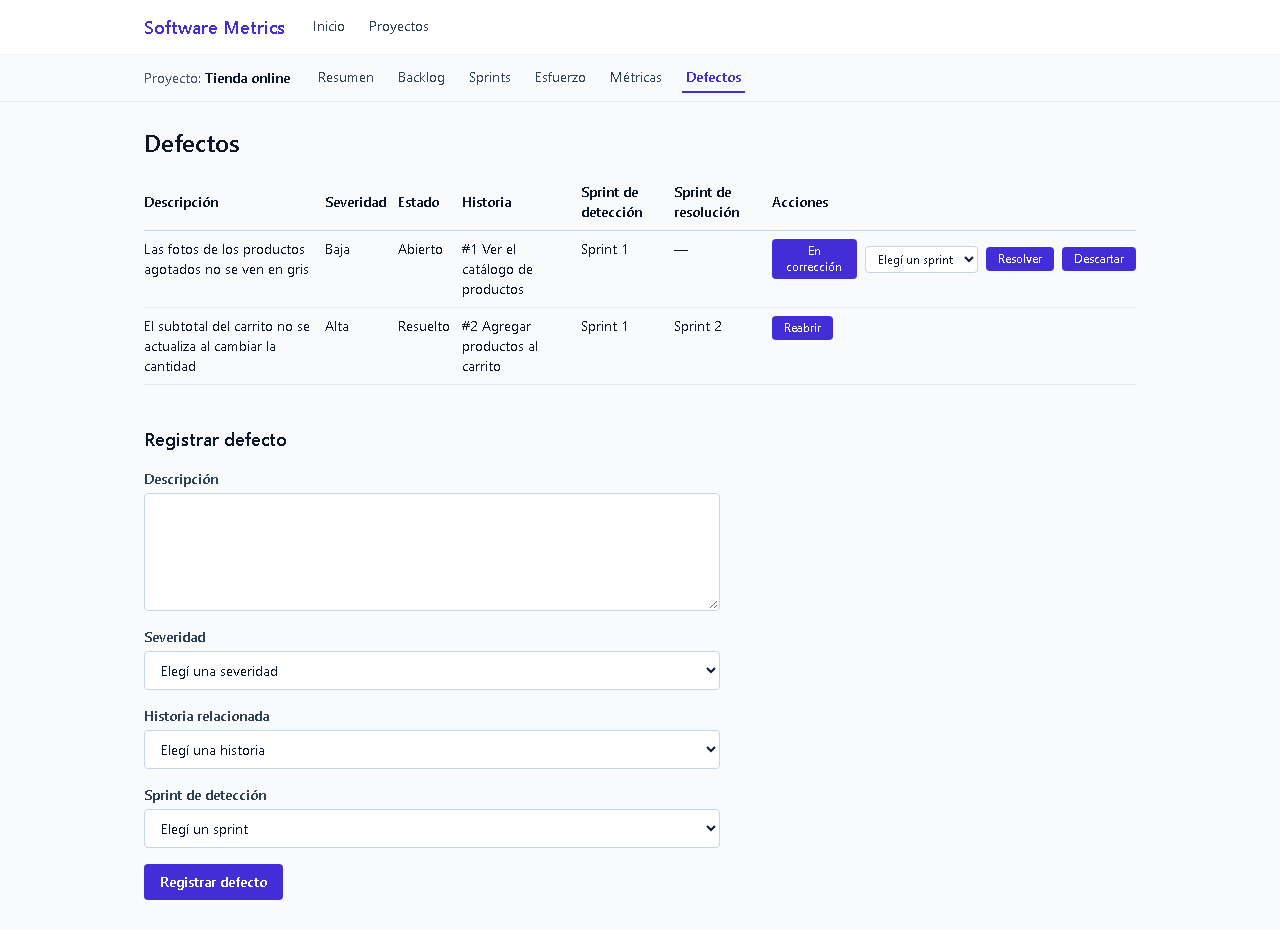
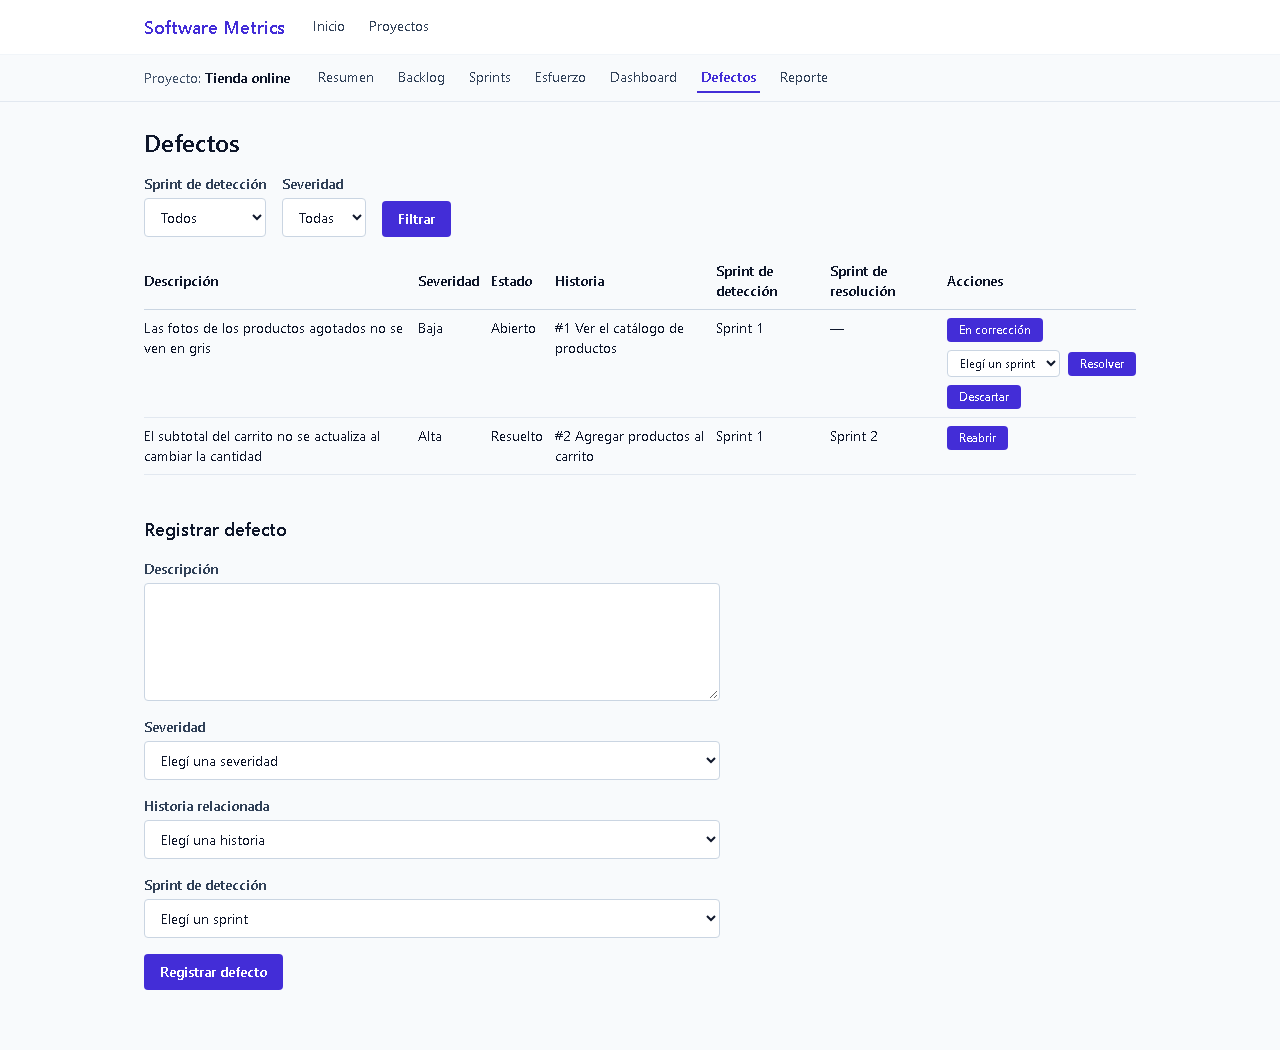
docs(manual): dashboard, reporte imprimible y filtro de defectos con sus capturas [T-008]

diff --git a/docs/manual-de-usuario.md b/docs/manual-de-usuario.md
@@ -2,12 +2,11 @@
 
 Este manual recorre **Software Metrics & Estimation** pantalla por pantalla, en el orden en que la usa
 un equipo: primero el proyecto y sus integrantes, después el backlog, los sprints, la estimación con
-Planning Poker, las horas trabajadas y los defectos. Para cada pantalla dice para qué sirve, qué se
-carga y qué errores puede mostrar.
+Planning Poker, las horas trabajadas y los defectos, y al final el dashboard y el reporte. Para cada
+pantalla dice para qué sirve, qué se carga y qué errores puede mostrar.
 
 Las capturas son de la aplicación real, en una máquina local con los datos de ejemplo y un proyecto de
-demostración, **Tienda online**, que se cargó desde las mismas pantallas (28/10/2026). Las pantallas que
-todavía no están en `main` se marcan **(en desarrollo)**.
+demostración, **Tienda online**, que se cargó desde las mismas pantallas (29/10/2026).
 
 ## Antes de empezar
 
@@ -24,7 +23,7 @@ con tres integrantes. Para desarrollar, ver la [documentación técnica](documen
 
 - La **principal**, con *Inicio* y *Proyectos*.
 - La **del proyecto**, que aparece cuando se entra a uno: *Resumen*, *Backlog*, *Sprints*, *Esfuerzo*,
-  *Métricas* y *Defectos*. La sección en la que se está queda subrayada.
+  *Dashboard*, *Defectos* y *Reporte*. La sección en la que se está queda subrayada.
 
 **Cómo se ven los errores.** Cuando algo no se puede guardar, la pantalla no cambia y aparece arriba un
 recuadro rojo con **todos** los problemas juntos, para corregirlos de una vez (no uno por uno). Hay tres
@@ -129,8 +128,9 @@ prioridad tiene que ser must, should, could o wont", "el criterio de aceptacion 
 estimacion tiene que ser 1, 2, 3, 5, 8 o 13" y "el item esta completado" (una historia completada no se
 edita ni se estima).
 
-**Listar y filtrar el backlog (fuera de alcance).** Filtrar por estado y prioridad (US-007) quedó afuera
-del alcance del proyecto.
+**Filtrar el backlog por estado y prioridad.** La aplicación ya sabe filtrar (US-007), pero la pantalla
+del backlog todavía no ofrece los controles: la spec de US-007 deja la pantalla fuera de su alcance. Hoy
+el backlog se ve siempre completo.
 
 ## 4. Sprints
 
@@ -159,7 +159,8 @@ las del proyecto", "el sprint tiene que empezar despues de que termine el ultimo
 ### Detalle de un sprint: asignar, marcar y cerrar
 
 Se entra tocando el nombre del sprint. Muestra su Sprint Goal, fechas, estado y los Story Points
-planificados y completados, y la lista de sus historias.
+planificados y completados, y la lista de sus historias. El enlace **Reporte** abre el
+[reporte del sprint](#9-reporte-imprimir-o-guardar-como-pdf).
 
 ![Sprint abierto](manual/09-sprint-abierto.png)
 
@@ -289,21 +290,64 @@ al mismo tiempo: hay que recargar) y, si se toca **Resolver** sin elegir sprint:
 
 ![Error: resolver sin sprint](manual/15-error-defecto.png)
 
-**Filtrar por sprint y severidad (en desarrollo).** El filtro (US-024) tiene su spec, pero todavía no
-está implementado.
+### Filtrar por sprint y severidad
 
-## 8. Dashboard y métricas (en desarrollo)
+Arriba de la lista, **Sprint de detección** y **Severidad** acotan los defectos que se ven; **Filtrar**
+aplica los dos a la vez y *Todos* / *Todas* los quita. Si ningún defecto cumple los filtros, la lista lo
+dice ("Ningún defecto cumple los filtros"), que no es lo mismo que un proyecto sin defectos ("Todavía no
+hay defectos").
 
-La pestaña **Métricas** va a mostrar el dashboard del proyecto (US-030): Story Points planificados y
-completados, velocidad, horas estimadas contra reales, porcentaje de historias completadas y defectos por
-sprint, con dos gráficos. Los cálculos ya están hechos y probados, y algunos se ven en otras pantallas
-(la velocidad en *Sprints anteriores*, la desviación en *Estimado contra real*), pero la pantalla todavía
-no está en `main`: hoy el enlace muestra "Página no encontrada".
+![Defectos filtrados por severidad alta](manual/18-defectos-filtrados.png)
 
-## 9. Reporte imprimible (en desarrollo)
+## 8. Dashboard
 
-El reporte de un proyecto o de un sprint en pantalla (US-033) y su vista imprimible para guardarlo como
-PDF desde el navegador (US-034) tienen su spec, pero todavía no están en `main`.
+La pestaña **Dashboard** reúne el estado del proyecto y sus métricas en una sola pantalla:
+
+- **Estado general:** la misma tarjeta del [resumen](#2-resumen-del-proyecto-e-integrantes).
+- **Sprint de referencia** (el abierto, o el último cerrado): Story Points completados sobre planificados,
+  porcentaje de historias completadas, horas estimadas, horas reales y desviación.
+- **Defectos:** el total, por severidad y por estado.
+- **Velocidad y sprints cerrados:** la velocidad del equipo y, por cada sprint cerrado, los Story Points
+  planificados y completados y los defectos detectados y resueltos en él.
+- **Gráficos:** barras con los Story Points planificados y completados de cada sprint cerrado, y una barra
+  con el porcentaje de historias completadas del sprint de referencia.
+
+No se carga nada: los números salen de lo que ya se registró en las otras pantallas. Si una tarjeta no se
+puede calcular, muestra su error y las demás se ven igual. Un proyecto sin sprints cerrados no tiene
+velocidad ni barras, y el dashboard lo dice.
+
+![Dashboard](manual/16-dashboard.png)
+
+## 9. Reporte: imprimir o guardar como PDF
+
+La pestaña **Reporte** muestra el reporte completo del proyecto, en una sola página y siempre con las
+mismas secciones: proyecto (con su estado general), integrantes, Product Backlog, sprints, esfuerzo
+(con el estimado contra real), defectos y métricas. El de un sprint se abre desde el enlace **Reporte** de
+la pantalla del sprint, y tiene el sprint, sus historias con el resultado de cada una, sus métricas, las
+horas registradas en él y los defectos detectados y resueltos. Una sección sin información dice "Sin
+datos"; una que no se pudo calcular muestra su error y el resto del reporte se ve igual. Los números se
+calculan en cada visita.
+
+![Reporte del proyecto](manual/17-reporte.png)
+
+**Imprimir o guardar como PDF.** El botón abre el diálogo de impresión del navegador; ahí se elige la
+impresora o "Guardar como PDF". Da lo mismo que imprimir con `Ctrl+P`. La versión impresa:
+
+- no tiene el menú, los botones ni los enlaces de la pantalla;
+- empieza con un encabezado con el nombre del proyecto, el título del reporte y "Generado el
+  dd/mm/aaaa", para que una hoja suelta diga de qué proyecto y de qué día es;
+- es A4 vertical, en negro sobre blanco;
+- no corta una sección que entra en una página, no deja un título solo al pie y no parte una fila de
+  tabla; una tabla que no entra en una hoja sigue en la siguiente repitiendo su encabezado.
+
+El PDF lo genera el navegador: la aplicación no crea archivos. Sin JavaScript el botón no aparece, pero
+`Ctrl+P` imprime igual. Ejemplos generados con Chrome: el
+[reporte del proyecto](evidencias/US-034/reporte-del-proyecto.pdf), el
+[del Sprint 1](evidencias/US-034/reporte-del-sprint-1.pdf) y uno con una
+[tabla de 60 historias](evidencias/US-034/reporte-con-tabla-larga.pdf) que ocupa dos hojas.
+
+**Errores posibles:** si el proyecto o el sprint no existen, o el sprint es de otro proyecto, se ve la
+página "Página no encontrada", sin botón de imprimir.
 
 ---
 
@@ -319,3 +363,5 @@ PDF desde el navegador (US-034) tienen su spec, pero todavía no están en `main
 7. **Defectos:** registrar un defecto y pasarlo a resuelto en un sprint.
 8. **Sprints → Cerrar sprint:** las historias no completadas vuelven al backlog. Crear el Sprint 2 y mirar
    **Ver sprints anteriores** para ver la velocidad.
+9. **Dashboard:** ver el estado, la velocidad y los gráficos.
+10. **Reporte → Imprimir o guardar como PDF:** guardar el reporte del proyecto como PDF.
